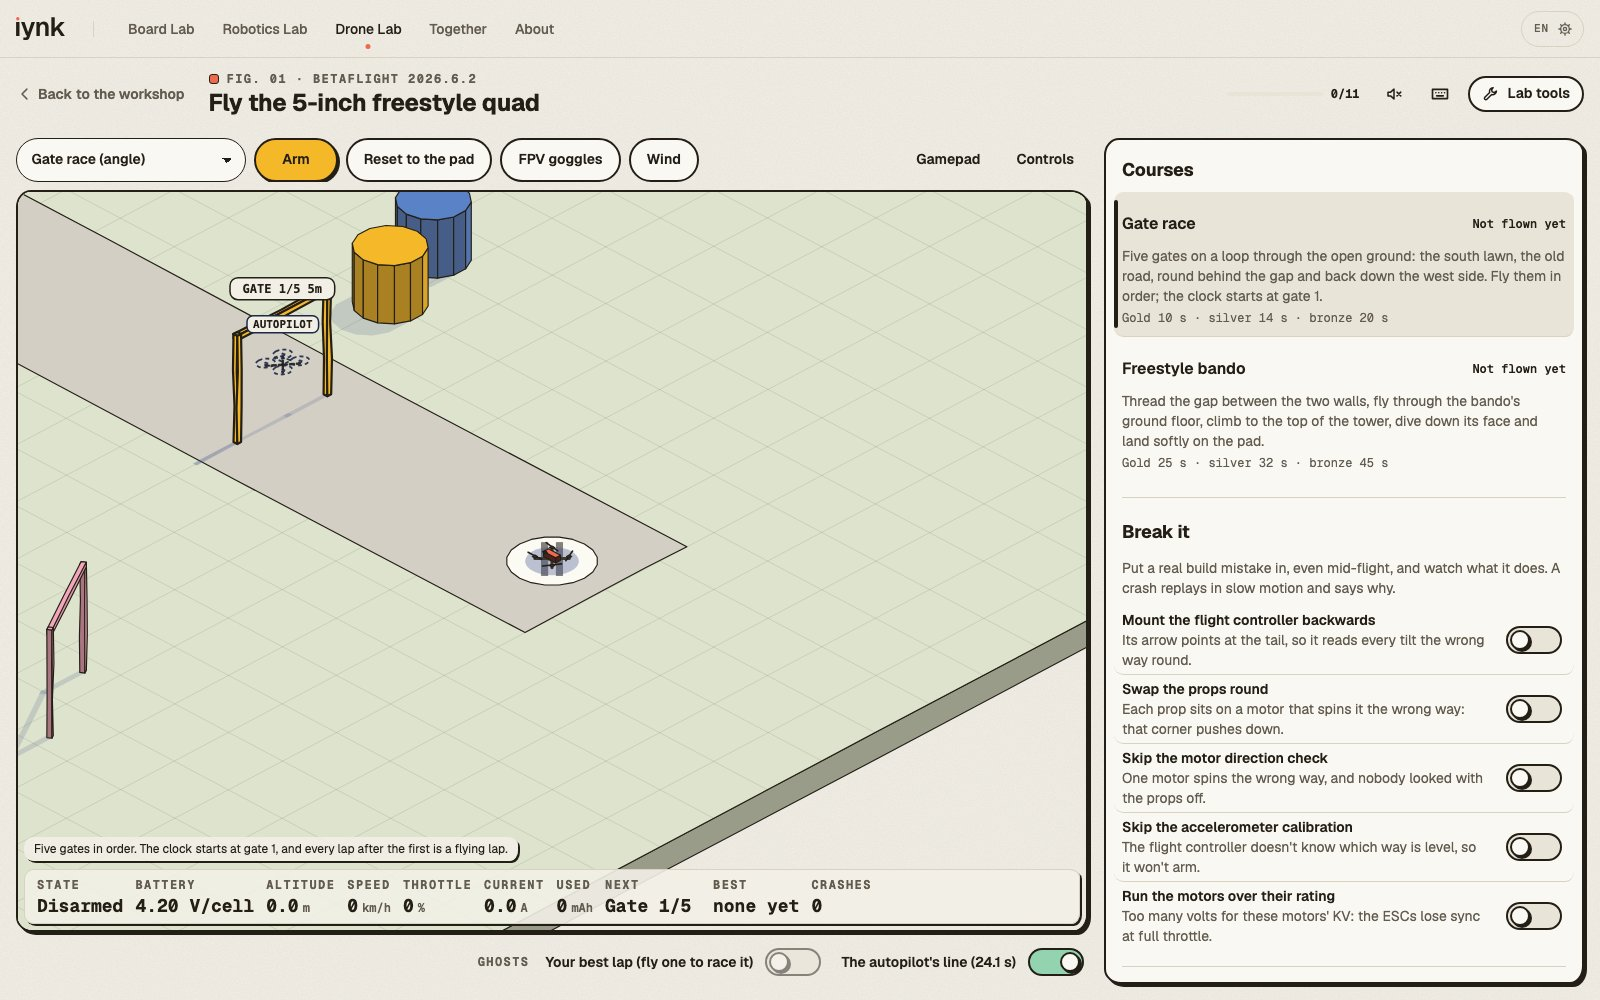
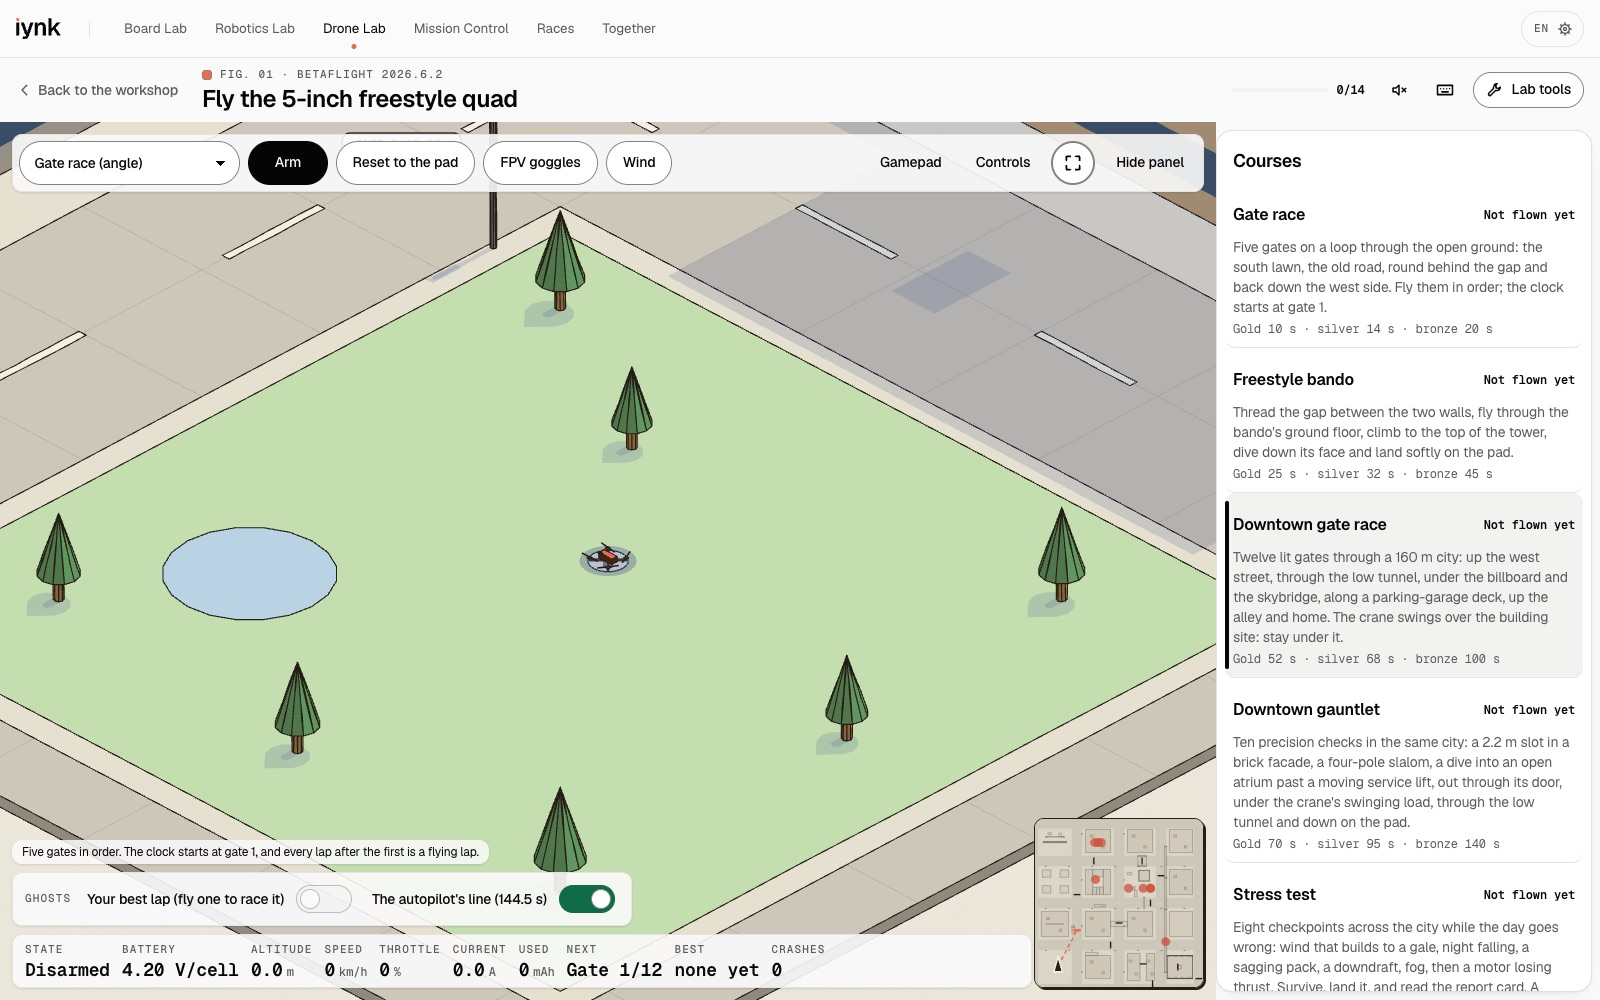
README: current screenshots, the downtown courses and the stress test

diff --git a/README.md b/README.md
@@ -31,7 +31,14 @@ Every item is a hand-inked 3D figure you can turn all the way round, see through
   an LED and it flashes once and burns out (113 mA through a part rated for 20), fit a capacitor backwards and it
   smokes, put a motor on the 5 V pin and the board browns out. Each one explains what happened and how to fix it.
 - **Fly it.** A flight sim with gate races and freestyle courses in angle or acro mode, third person or FPV, against
-  your best lap and other pilots' ghosts.
+  your best lap and other pilots' ghosts. The 5-inch quad also flies a 160 m downtown: a 12-gate race through
+  alleys, a tunnel, under a skybridge and a swinging crane; a precision gauntlet (a 2.2 m window slot, a slalom, an
+  atrium dive past a moving lift); and a stress test where wind builds to a gale, night and fog fall, the pack sags
+  and a motor fades. The report card explains the crash with the numbers from your own build.
+
+![A Board Lab lesson: Blink on the Arduino Uno R3](docs/media/lab.jpg)
+
+![The flight sim on the downtown course](docs/media/fly.jpg)
 
 ### Mission Control: Nemotron agents that build with the real simulators
 
@@ -50,6 +57,8 @@ model, live part prices and datasheet search. The critic checks the tool evidenc
 and sends the executor back with concrete fixes. Every step, tool call and timing streams into the page as it
 happens. The result is a verified design and a priced parts list that loads straight into the lab. Changes to your
 bench arrive as proposals you accept or reject.
+
+![Mission Control: the agent trace and the priced result](docs/media/mission.jpg)
 
 ### Never alone
 
